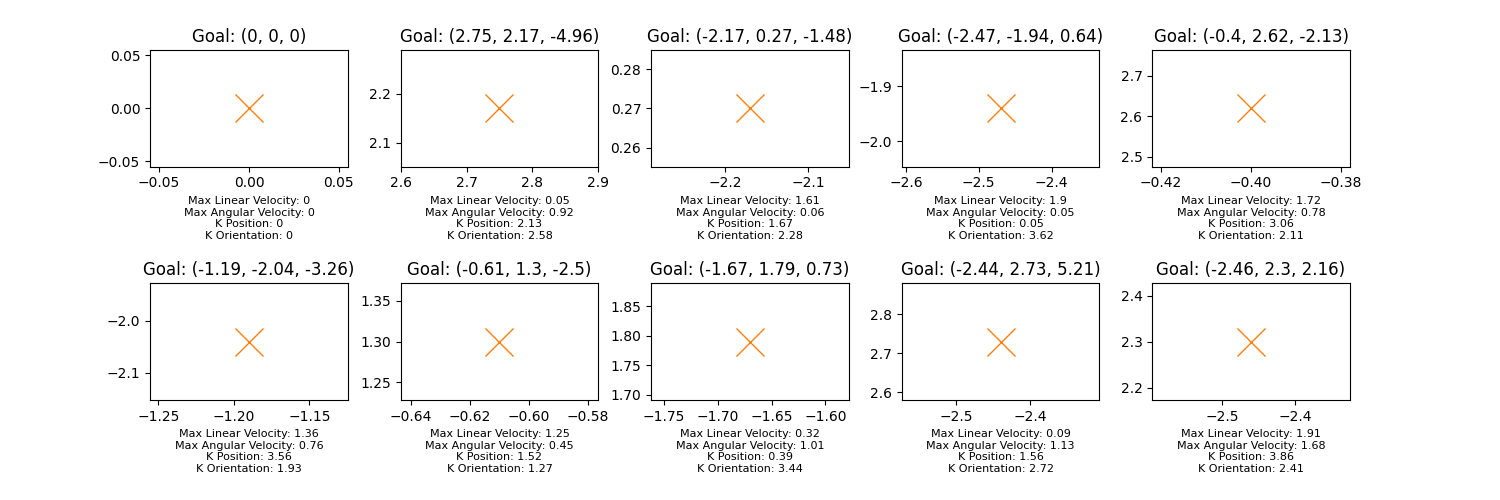
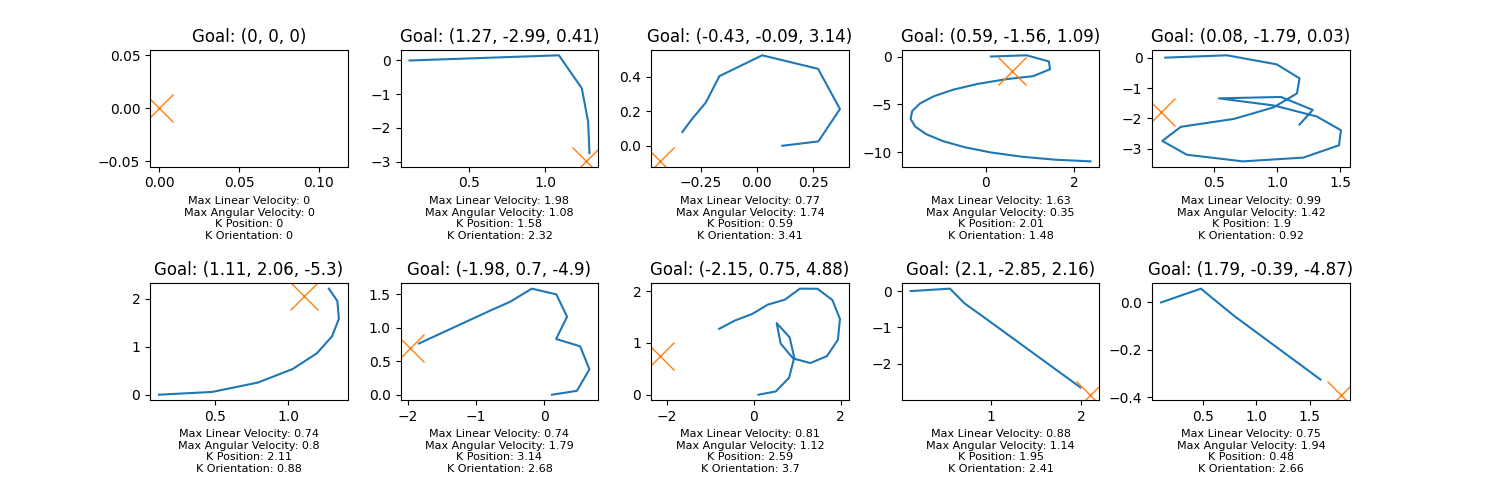
simulate time

diff --git a/Exercises/MotionControl/motioncontrol.py b/Exercises/MotionControl/motioncontrol.py
@@ -105,26 +105,19 @@ def main():
     plt.subplots_adjust(hspace=1, top=0.9, bottom=0.2, left=0.1, right=0.9)
     
     for i in range(10):
-        initial_t = time.time()
-        t = time.time()
+        t = 0
         dt = 0.5
         v_left = 0.2
         v_right = 0.25
         pose = Pose()
         position = PositionControl()
         
-        while t < initial_t + TIME_END:
+        while t < TIME_END:
             print(pose)
             pose = ForwardKinematics.forward_kinematics(pose, v_left, v_right, dt)
             v_left, v_right = position.position_control(pose, GOAL)
-            t = time.time()
 
-            interval = t + dt
-            while t < interval:
-                time.sleep(0.05)
-                t = time.time()
-
-            t = t + dt
+            t += dt
 
         plot_graph(position, axs[i])
         
